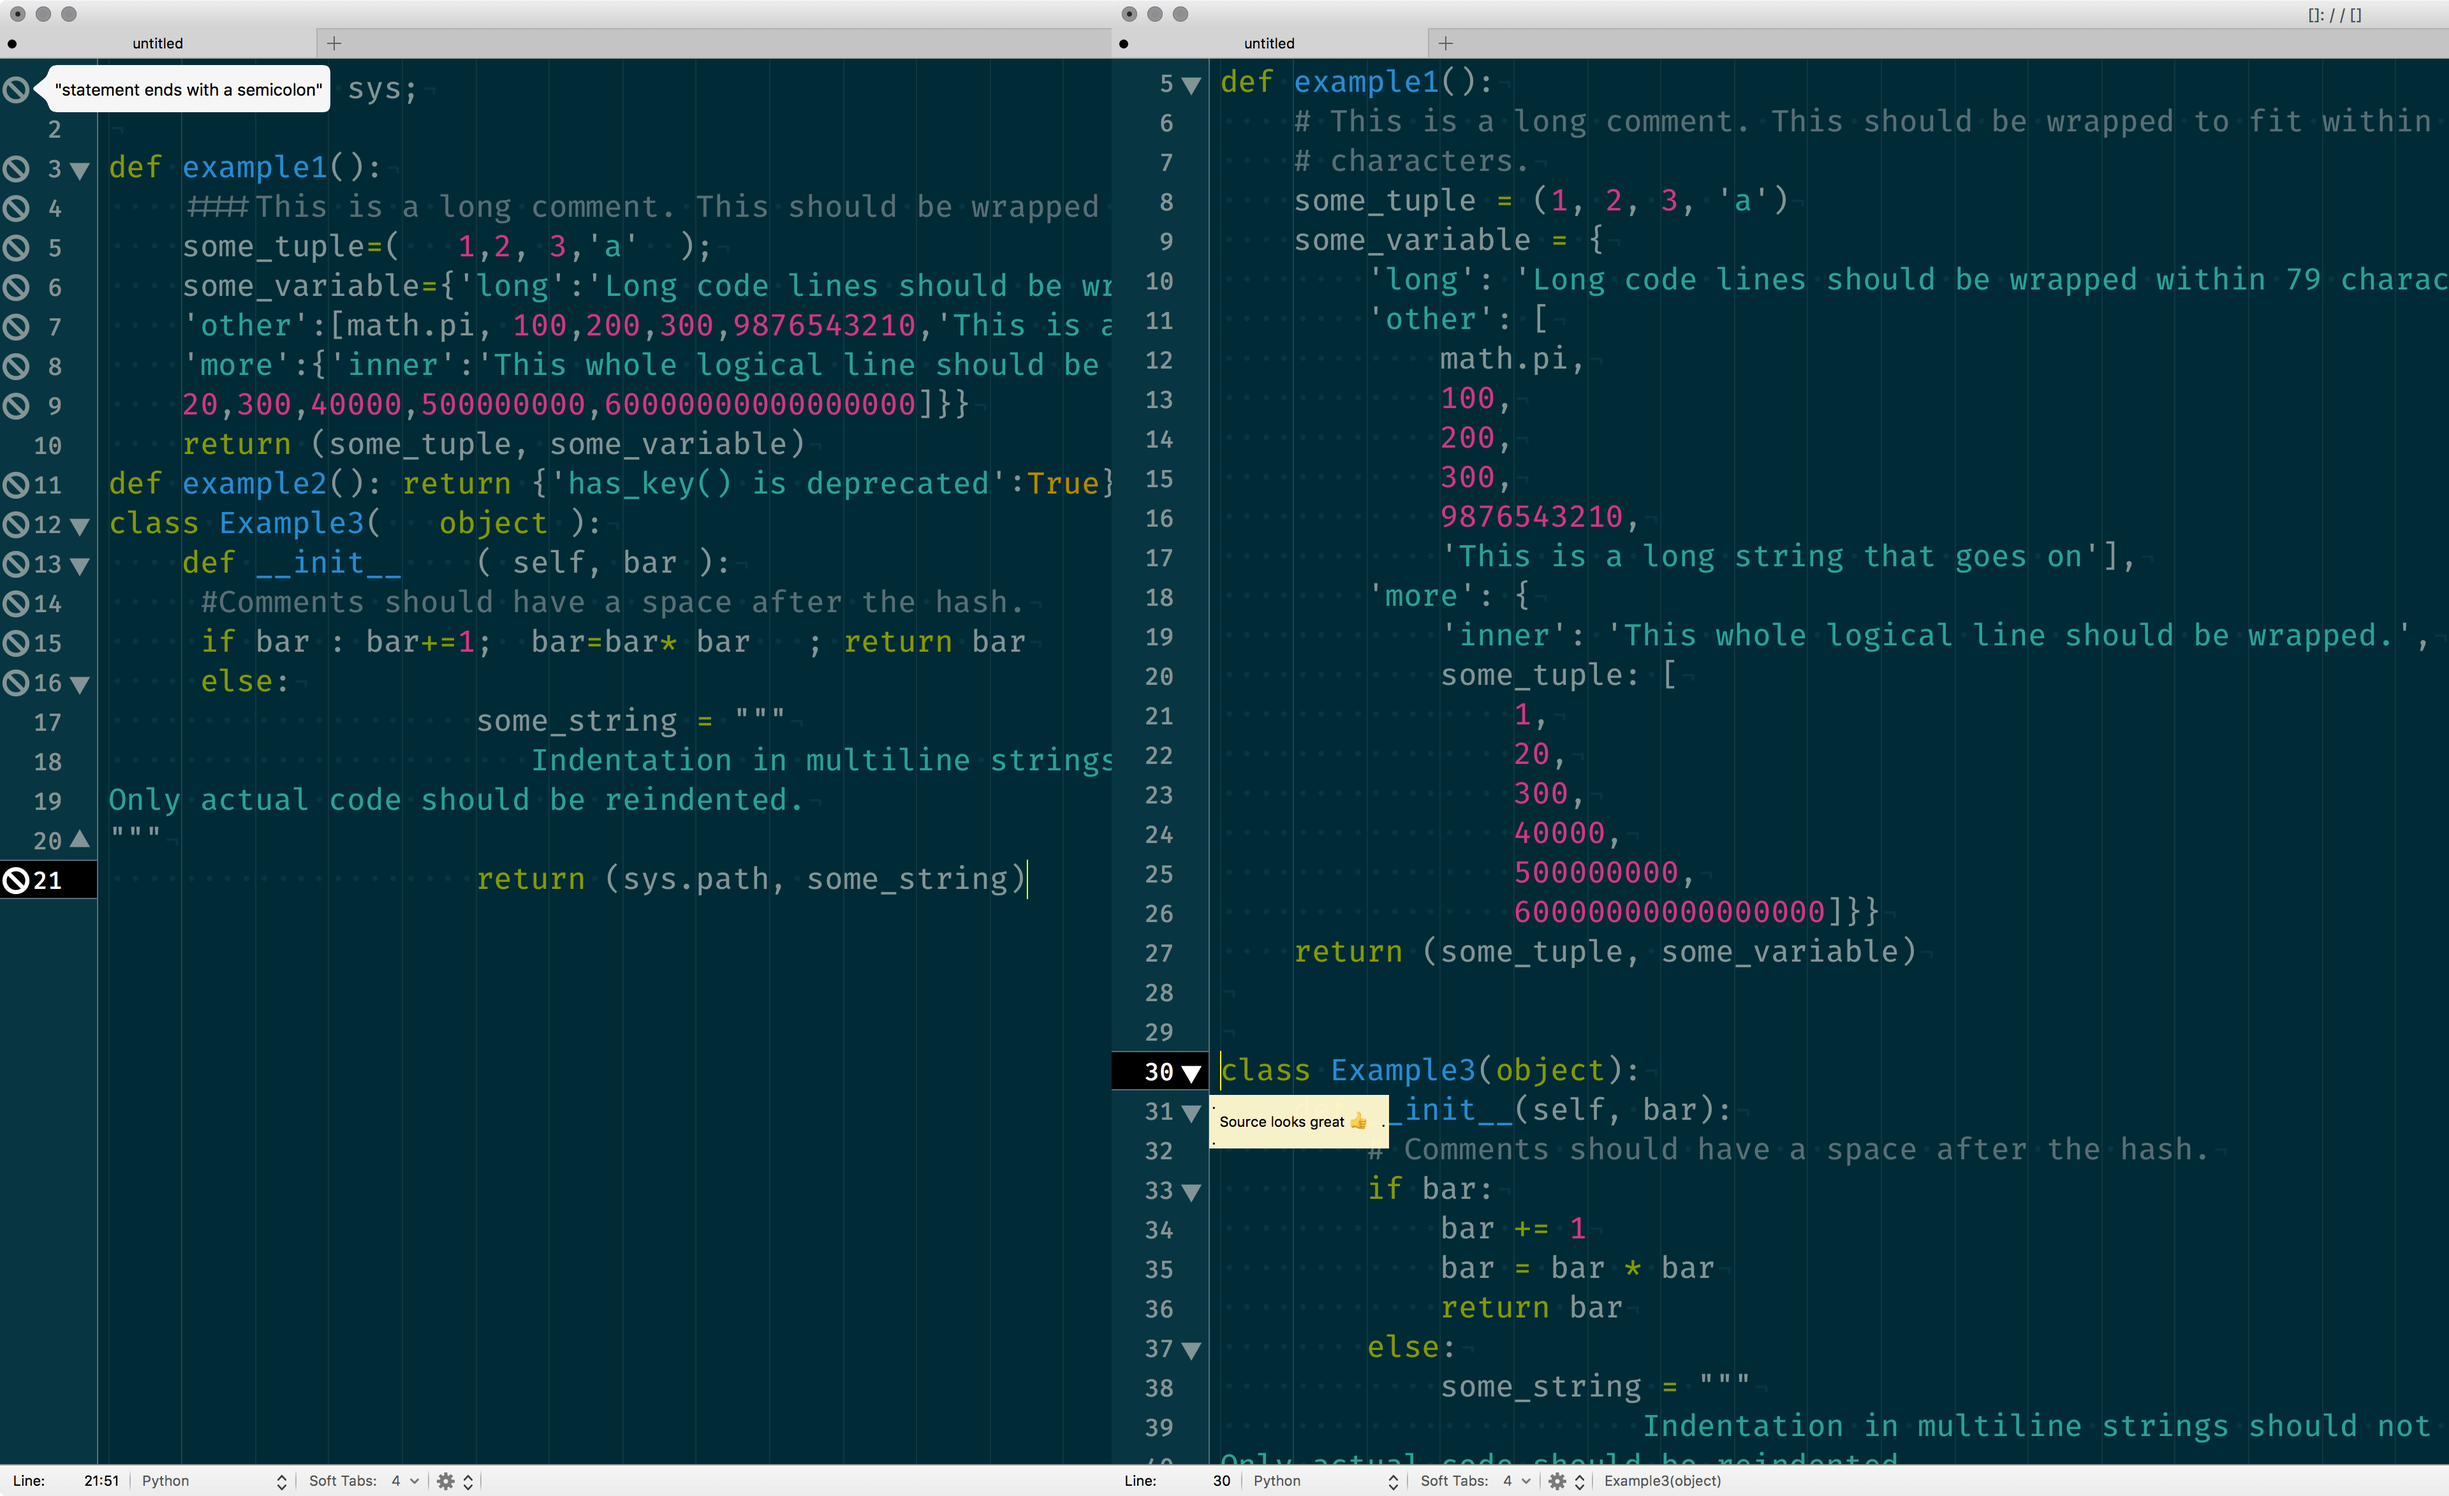
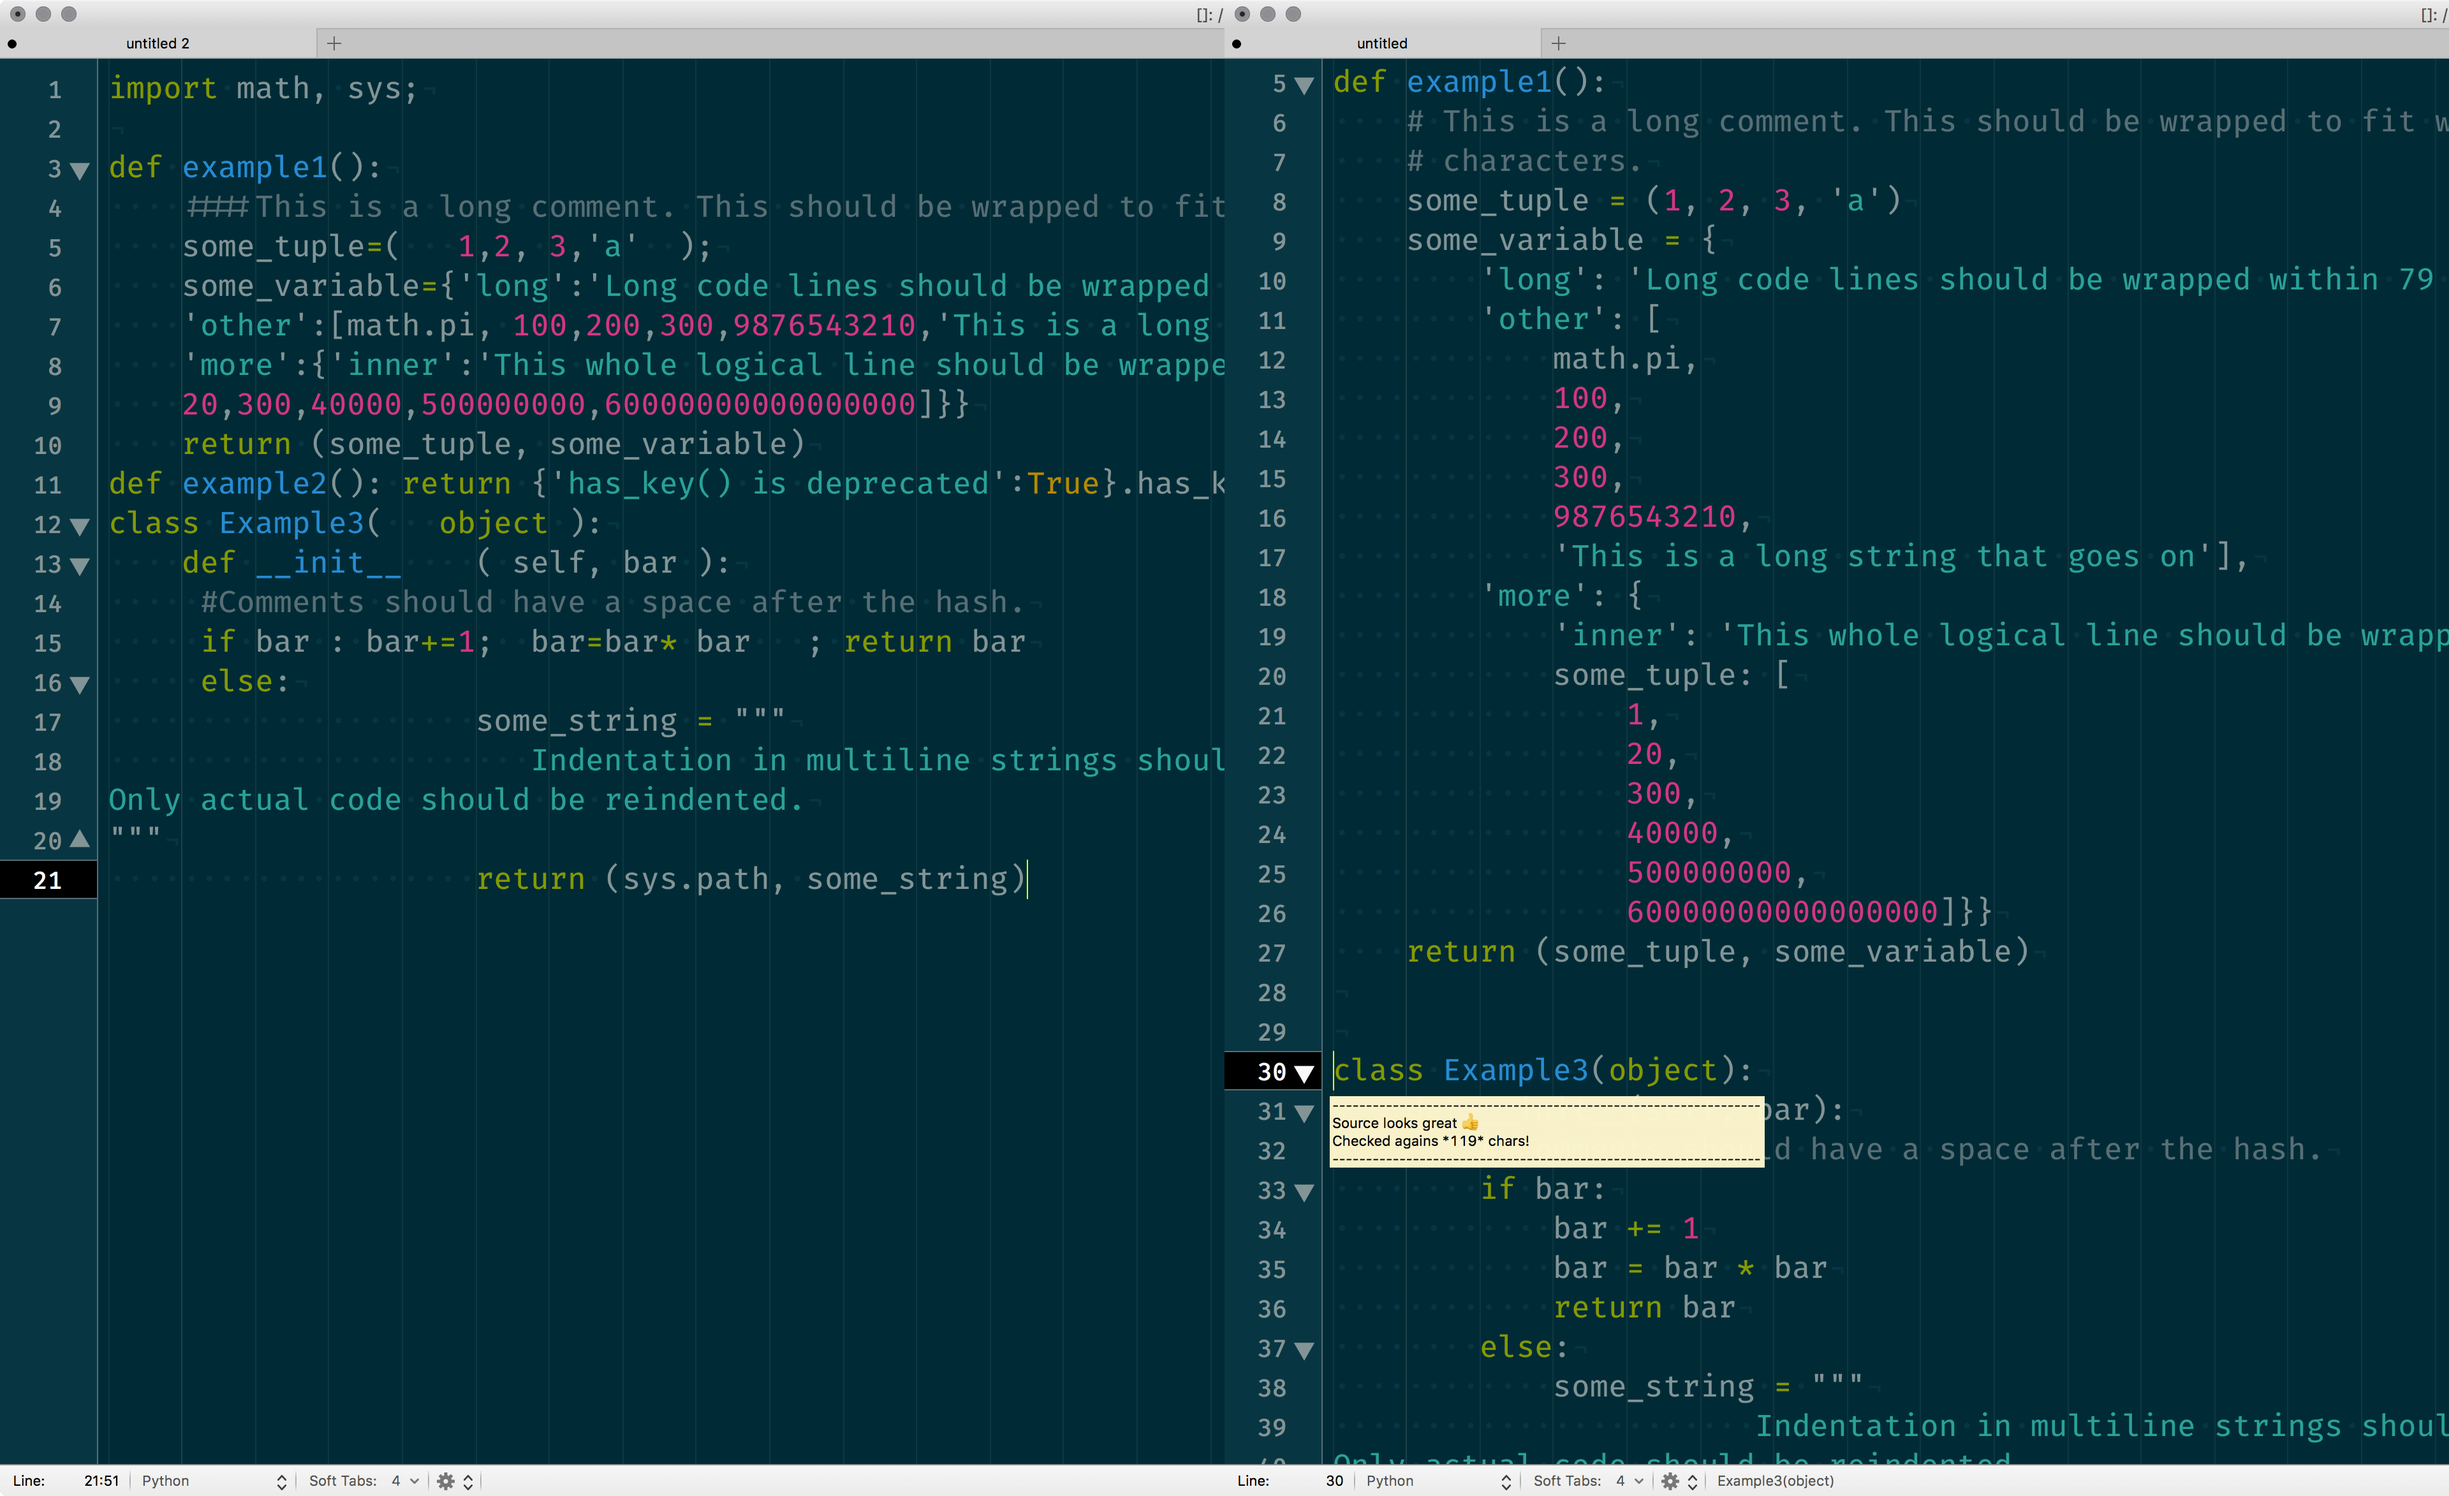
Success tooltip message now shows maximum characters value

diff --git a/Support/pep8er_mate.rb b/Support/pep8er_mate.rb
@@ -63,8 +63,16 @@ module Pep8er
     system(ENV['TM_MATE'], "--clear-mark=note", "--clear-mark=warning", "--clear-mark=error")
     
     lines = out.split("\n")
-    TextMate.exit_show_tool_tip(".\n  Source looks great 👍   .\n.") if lines.count == 0
-    
+    if lines.count == 0
+      
+      succes_tooltip_message = "#{"-"*64}\n"\
+        "Source looks great 👍\n"\
+        "Checked agains *#{MAXIMUM_CHARACTER_AMOUNT}* chars!\n"\
+        "#{"-"*64}"
+
+      TextMate.exit_show_tool_tip(succes_tooltip_message) 
+    end
+
     lines.each do |line|
       line_result   = line.split(" || ")
 

diff --git a/README.md b/README.md
@@ -125,6 +125,11 @@ This project is licensed under MIT
 
 ## Change Log
 
+**2017-05-14**
+
+* Updated: Success tooltip message now shows maximum characters value
+* Updated: Screenshot of `before-and-after-flake8.png`
+
 **2017-05-13**
 
 * First release :)
